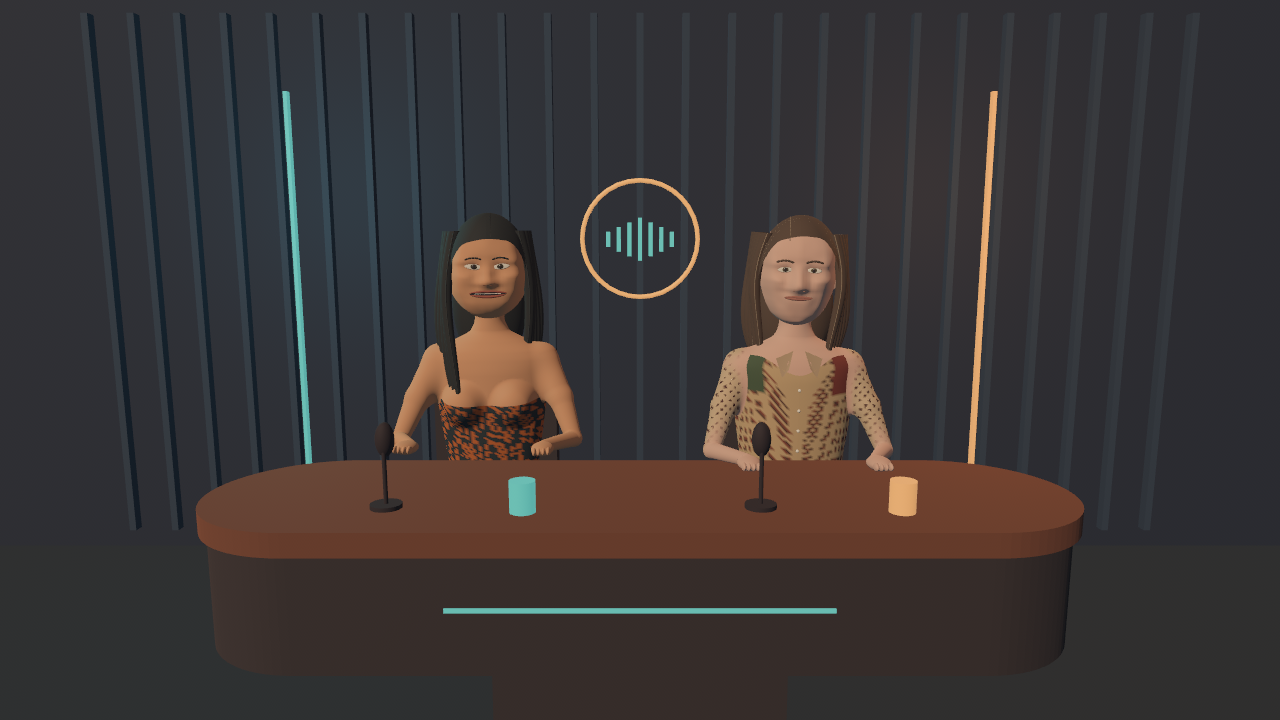
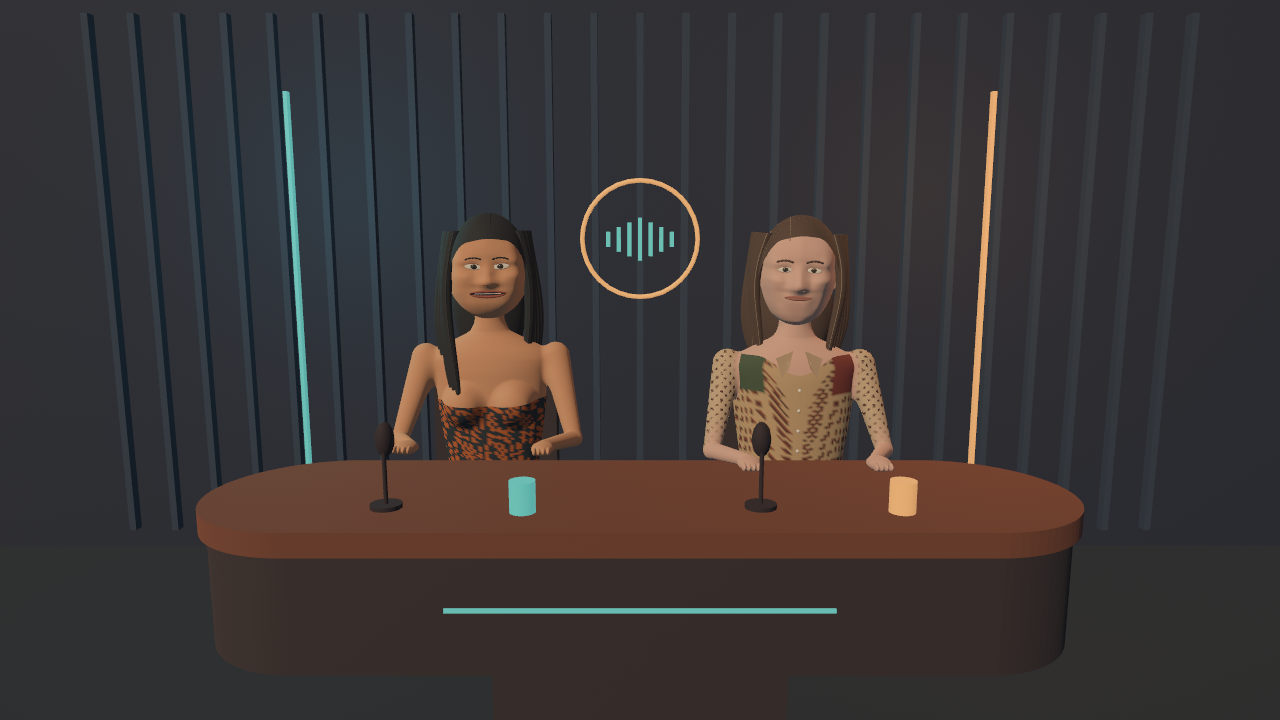
Raise armpits and remove upper-arm midpoint bulges

Changed region(s): [[0.3125, 0.4583, 0.4688, 0.6417], [0.5312, 0.4889, 0.5938, 0.6111], [0.6562, 0.4889, 0.6875, 0.6111]]

diff --git a/src/studio/body.rs b/src/studio/body.rs
@@ -17,7 +17,7 @@ pub struct Surface {
 
 const SHOULDER_Y: f32 = 0.55;
 const SHOULDER_RADIUS: f32 = 0.073;
-const SHOULDER_TOP_Y: f32 = 0.6325;
+const SHOULDER_TOP_Y: f32 = SHOULDER_Y + 0.005 + SHOULDER_RADIUS;
 const CHEST_RADIUS_Y: f32 = 0.100;
 pub const CHEST_CENTER_Y: f32 = SHOULDER_TOP_Y - 3.0 * CHEST_RADIUS_Y;
 pub const NAVEL_Y: f32 = 0.10;
@@ -30,8 +30,8 @@ fn elbow(side: f32) -> Vec3 {
     Vec3::new(side * 0.12, -0.40, 0.16)
 }
 
-fn upper_arm(side: f32) -> Vec3 {
-    Vec3::new(side * 0.06, -0.20, 0.075)
+fn arm_start(side: f32) -> Vec3 {
+    Vec3::new(side * 0.04, 0.005, 0.0)
 }
 
 pub fn shoulder(side: f32) -> Vec3 {
@@ -168,15 +168,10 @@ fn smooth_union(first: f32, second: f32, radius: f32) -> f32 {
 
 fn arm_distance(point: Vec3, side: f32) -> f32 {
     let point = point - shoulder(side);
-    let shoulder = Vec3::new(-side * 0.025, 0.005, 0.0);
-    let upper = upper_arm(side);
+    let shoulder = arm_start(side);
     let elbow = elbow(side);
     let wrist = wrist(side);
-    let upper_arm = smooth_union(
-        capsule(point, shoulder, upper, SHOULDER_RADIUS, 0.061),
-        capsule(point, upper, elbow, 0.061, 0.040),
-        0.018,
-    );
+    let upper_arm = capsule(point, shoulder, elbow, SHOULDER_RADIUS, 0.040);
     let lower_arm = capsule(point, elbow, wrist, 0.040, 0.029);
     smooth_union(upper_arm, lower_arm, 0.010)
 }
@@ -186,10 +181,10 @@ fn distance(index: usize, point: Vec3) -> f32 {
         smooth_union(
             torso_distance(index, point),
             arm_distance(point, -1.0),
-            0.045,
+            0.030,
         ),
         arm_distance(point, 1.0),
-        0.045,
+        0.030,
     )
 }
 
@@ -441,9 +436,59 @@ mod tests {
     }
 
     #[test]
+    fn armpits_open_above_the_upper_arm_midpoint() {
+        for index in 0..2 {
+            for side in [-1.0, 1.0] {
+                let point = Vec3::new(side * 0.29, 0.40, 0.06);
+                assert!(distance(index, point) > 0.0, "host {index}, side {side}");
+                let shoulder_join = shoulder(side) + arm_start(side);
+                let attachment = Vec3::new(side * 0.30, shoulder_join.y, 0.0);
+                assert!(distance(index, attachment) < 0.0);
+            }
+        }
+    }
+
+    #[test]
+    fn upper_arms_taper_without_a_midpoint_bulge() {
+        for side in [-1.0, 1.0] {
+            let start = arm_start(side);
+            let end = elbow(side);
+            let direction = (end - start).normalize();
+            let tangent = direction.any_orthonormal_vector();
+            let bitangent = direction.cross(tangent);
+            let mut previous_radius = f32::INFINITY;
+            for step in 10..=85 {
+                let fraction = step as f32 / 100.0;
+                let center = shoulder(side) + start.lerp(end, fraction);
+                let expected_radius = SHOULDER_RADIUS + fraction * (0.040 - SHOULDER_RADIUS);
+                let mut largest_radius = 0.0_f32;
+                for segment in 0..32 {
+                    let angle = segment as f32 / 32.0 * std::f32::consts::TAU;
+                    let radial = tangent * angle.cos() + bitangent * angle.sin();
+                    let mut inside = 0.0;
+                    let mut outside = 0.10;
+                    for _ in 0..20 {
+                        let radius = (inside + outside) * 0.5;
+                        if arm_distance(center + radial * radius, side) <= 0.0 {
+                            inside = radius;
+                        } else {
+                            outside = radius;
+                        }
+                    }
+                    let radius = (inside + outside) * 0.5;
+                    assert!((radius - expected_radius).abs() < 0.00001);
+                    largest_radius = largest_radius.max(radius);
+                }
+                assert!(largest_radius <= previous_radius);
+                previous_radius = largest_radius;
+            }
+        }
+    }
+
+    #[test]
     fn elbows_do_not_form_a_rounded_joint_bulge() {
         for side in [-1.0, 1.0] {
-            let upper = upper_arm(side);
+            let upper = arm_start(side);
             let elbow = elbow(side);
             let wrist = wrist(side);
             let normal = (upper - elbow).cross(wrist - elbow).normalize();

diff --git a/README.md b/README.md
@@ -24,7 +24,9 @@ OBS records the app window and the two audio channels.
   than intersecting ellipsoids, with tapered forearms and a broader shoulder
   profile for host 2. Three-joint GPU skinning blends shoulder gestures into
   the torso without opening gaps; the surface is generated only at startup.
-  Slimmer elbow transitions avoid rounded joint knobs. Host 1's chest has
+  Higher armpits and continuously tapered upper arms avoid a low shoulder web
+  and midpoint bulges; slimmer elbow transitions avoid rounded joint knobs.
+  Host 1's chest has
   two rounded, hemisphere-like contours with a central valley, shared by skin
   and top. The shoulder-to-chest gap equals the height of the rounded chest
   contours (excluding the soft blending rim); the top covers approximately
